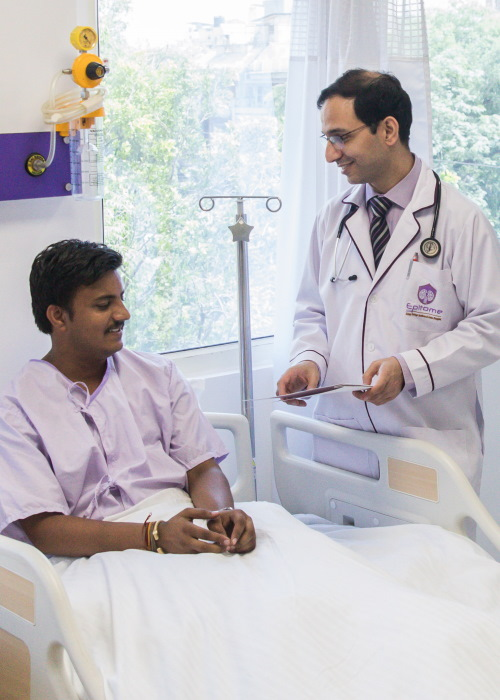
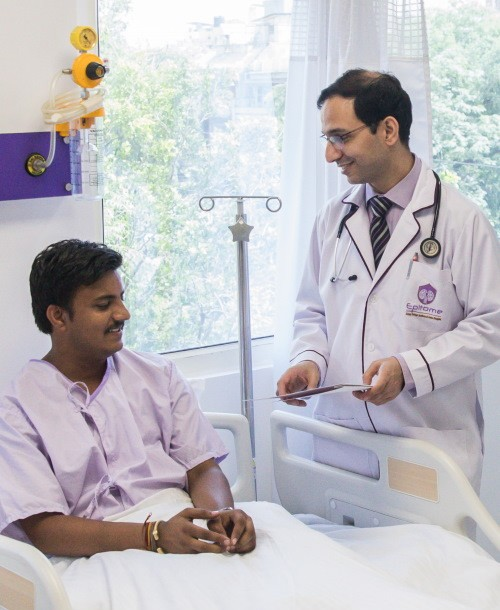
Actualizacion 26-6-25

diff --git a/src/app/dashboard/components/ui/header/header.component.html b/src/app/dashboard/components/ui/header/header.component.html
@@ -1,21 +1,12 @@
 <div
-  class="navbar bg-one-300/20 shadow-sm justify-between px-4 md:px-44 font-montserrat"
+  class="navbar bg-one-300/20 shadow-sm justify-between px-4 md:px-44 bg-one-300"
 >
   <div class="flex flex-row items-center">
-    <button class="btn bg-one-700 border-none text-white md:hidden">
-      <svg
-        xmlns="http://www.w3.org/2000/svg"
-        fill="none"
-        viewBox="0 0 24 24"
-        class="inline-block h-5 w-5 stroke-current"
-      >
-        <path
-          stroke-linecap="round"
-          stroke-linejoin="round"
-          stroke-width="2"
-          d="M4 6h16M4 12h16M4 18h16"
-        ></path>
-      </svg>
+    <button
+      class="btn bg-one-700 border-none text-white md:hidden"
+      (click)="toogleMenu()"
+    >
+      <span class="icon-[mingcute--menu-fill] text-2xl"></span>
     </button>
     <img
       src="/logo_color_header.png"
@@ -26,23 +17,24 @@
       class="menu hidden md:flex md:menu-horizontal rounded-box space-x-2 mx-4"
     >
       @for (item of menuItems; track item.title) {
-
       <li>
         <a
           class="hover:bg-one-700 hover:text-white hover:border-none rounded-md p-4 transition-all font-bold text-base"
           >{{ item.title }}</a
         >
       </li>
-
       }
     </ul>
   </div>
   <div class="flex-none space-x-4">
-    <!-- <button class="btn bg-one/20 border-none text-black/60 font-montserrat">
+    <!-- <button class="btn bg-one/20 border-none text-black/60">
       Servicios
     </button> -->
-    <button class="btn bg-one-700 border-none text-white font-montserrat">
+    <button class="btn bg-one-700 text-white" onclick="my_modal_1.showModal()">
       Turnos
     </button>
+    <dialog id="my_modal_1" class="modal">
+      <app-modal-appointment />
+    </dialog>
   </div>
 </div>

diff --git a/src/styles.css b/src/styles.css
@@ -19,7 +19,7 @@
 }
 
 @theme {
-  /* --color-one: #28516c; */
+  /* --color-one: #28516c; 700 */
 
   --color-one-50: oklch(96.42% 0.013 251.55);
   --color-one-100: oklch(93.03% 0.026 248.1);
@@ -29,7 +29,7 @@
   --color-one-500: oklch(63.41% 0.098 239.99);
   --color-one-600: oklch(56.61% 0.087 239.31);
   --color-one-700: oklch(48.96% 0.075 238.88);
-  --color-one-800: oklch(41.77% 0.065 239.66);
+  --color-one-800: oklch(41.772% 0.0646 239.698);
   --color-one-900: oklch(27.39% 0.042 239.95);
   --color-one-950: oklch(20.47% 0.032 239.07);
 
@@ -74,4 +74,35 @@
   --shadow-xl: 0 20px 25px -5px rgb(0 0 0 / 0.1),
     0 8px 10px -6px rgb(0 0 0 / 0.1);
   --shadow-2xl: 0 25px 50px -12px rgb(0 0 0 / 0.25);
+
+  --animate-menu-on: menu-on 0.5s ease-in;
+  --animate-menu-off: menu-off 0.5s ease-out;
+
+  @keyframes menu-on {
+    0% {
+      transform: translateX(-100%);
+    }
+    100% {
+      transform: translateX(0%);
+    }
+  }
+
+  @keyframes menu-off {
+    0% {
+      visibility: visible;
+      transform: translateX(0%);
+    }
+    100% {
+      transform: translateX(-100%);
+    }
+  }
+}
+
+@utility modal {
+  @apply opacity-0;
+  @apply backdrop-blur-sm;
+}
+
+@utility scroll-none {
+  overscroll-behavior-y: contain;
 }

diff --git a/src/app/dashboard/components/ui/footer/footer.component.html b/src/app/dashboard/components/ui/footer/footer.component.html
@@ -1,8 +1,12 @@
 <footer
-  class="footer md:grid-cols-12 bg-base-200 text-base-content p-4 md:p-12 font-montserrat bg-black/70 text-white/80"
+  class="footer md:grid-cols-12 text-base-content p-4 md:p-12 bg-black/80 text-white/80"
 >
   <aside class="md:col-span-3">
-    <img src="logo_color_header.png" alt="logo" class="h-12 md:h-16" />
+    <img
+      src="logo_color_footer.png"
+      alt="logo"
+      class="h-12 md:h-16 bg-black/5"
+    />
     <p>Su salud es nuestra prioridad</p>
 
     <div class="space-x-2">
@@ -47,11 +51,10 @@
       <p>Emergencia: disponible 24/7</p>
     </div>
   </nav>
-  <div
-    class="md:col-span-12 flex flex-row items-center w-full border-t-2 border-white mt-2 pt-2 space-x-2"
-  >
-    <span class="icon-[solar--copyright-linear]"></span>
-    <p class="text-sm">2025 SaludVital.</p>
-    <p class="hidden md:flex">Todos los derechos reservados.</p>
-  </div>
 </footer>
+<div
+  class="flex flex-row items-center space-x-2 bg-black/80 text-white/80 p-4 md:px-12 border-t-2 border-t-white"
+>
+  <span class="icon-[solar--copyright-linear]"></span>
+  <p class="text-[12px] md:text-sm">2025 SaludVital. Todos los derechos reservados.</p>
+</div>

diff --git a/src/app/dashboard/components/ui/main/main.component.html b/src/app/dashboard/components/ui/main/main.component.html
@@ -1,5 +1,5 @@
 <main
-  class="h-full grid grid-cols-4 md:grid-cols-12 gap-4 md:gap-8 mx-4 md:mx-44 mt-4 md:mt-16 font-montserrat"
+  class="h-full grid grid-cols-4 md:grid-cols-12 gap-4 md:gap-8 mx-4 md:mx-44 mt-4 md:mt-8"
 >
   <!-- Logo and title-->
   <section class="col-span-4 md:col-span-6 md:px-4">
@@ -13,7 +13,7 @@
       </div>
       <div class="col-span-2 col-start-3 md:col-span-6">
         <h1
-          class="text-3xl md:text-5xl font-montserrat-bold font-bold text-center text-shadow-lg text-black/60 text-shadow-2xs md:mt-8"
+          class="text-3xl md:text-5xl font-montserrat-bold font-bold text-center text-shadow-lg text-black/60 text-shadow-2xs"
         >
           Su Salud es Nuestra <span class="text-two-300">Prioridad</span>
         </h1>
@@ -61,7 +61,7 @@
     <div>
       <img
         class="w-full flexgrayscale-50 brightness-75"
-        src="doctors_4.jpg"
+        src="medicos.png"
         alt="Doctors"
       />
     </div>

diff --git a/src/app/dashboard/components/ui/header/header.component.ts b/src/app/dashboard/components/ui/header/header.component.ts
@@ -1,13 +1,28 @@
-import { Component } from '@angular/core';
+import { Component, inject} from '@angular/core';
 import { menuItems } from '../../../data/data-main';
-import { MenuItem } from '../../../interfaces/main.interface';
+import { MenuItem } from '../../../interfaces/dashboard.interface';
+import { DashboardService } from '../../../dashboard.service';
+import { ModalAppointmentComponent } from "../modal-appointment/modal-appointment.component";
 
 @Component({
   selector: 'app-header',
-  imports: [],
+  imports: [ModalAppointmentComponent],
+
   templateUrl: './header.component.html',
 })
 export class HeaderComponent {
 
+  constructor() {
+
+  }
+
+
   menuItems: MenuItem[] = menuItems;
+
+  dashboardService = inject(DashboardService);
+
+  toogleMenu = () => this.dashboardService.toogleMenu();
+
+
+
 }

diff --git a/src/app/dashboard/pages/home-page/home-page.component.ts b/src/app/dashboard/pages/home-page/home-page.component.ts
@@ -1,0 +1,25 @@
+import { Component, inject } from '@angular/core';
+import { MainComponent } from "../../components/ui/main/main.component";
+import { FooterComponent } from "../../components/ui/footer/footer.component";
+import { SideMenuComponent } from "../../components/ui/side-menu/side-menu.component";
+import { DashboardService } from '../../dashboard.service';
+
+@Component({
+  selector: 'app-home-page',
+  imports: [MainComponent, FooterComponent, SideMenuComponent],
+  templateUrl: './home-page.component.html',
+})
+export class HomePageComponent {
+
+  constructor() {
+
+  }
+
+  dashboardService = inject(DashboardService);
+  isMenuOpen = this.dashboardService.isMenuOpen;
+
+
+}
+
+
+

diff --git a/src/app/dashboard/dashboard.routes.ts b/src/app/dashboard/dashboard.routes.ts
@@ -1,14 +1,20 @@
 import { Routes } from "@angular/router";
-import { DashboardComponent } from "./components/dashboard.component";
+import { DashboardLayoutComponent } from "./layout/dashboard-layout/dashboard-layout.component";
+import { HomePageComponent } from "./pages/home-page/home-page.component";
 
 
 export const dashboardRoutes: Routes = [
   {
-    path: '', component: DashboardComponent,
+    path: '', component: DashboardLayoutComponent,
     children: [
-      { path: 'dashboard', component: DashboardComponent },
+      { path: "", component: HomePageComponent },
     ]
+  },
+  {
+    path: "**",
+    redirectTo: ""
   }
+
 ];
 
 export default dashboardRoutes;

diff --git a/src/index.html b/src/index.html
@@ -1,13 +1,13 @@
-<!doctype html>
+<!DOCTYPE html>
 <html lang="en">
-<head>
-  <meta charset="utf-8">
-  <title>SaludVital</title>
-  <base href="/">
-  <meta name="viewport" content="width=device-width, initial-scale=1">
-  <link rel="icon" type="image/x-icon" href="favicon.ico">
-</head>
-<body>
-  <app-root></app-root>
-</body>
+  <head>
+    <meta charset="utf-8" />
+    <title>SaludVital</title>
+    <base href="/" />
+    <meta name="viewport" content="width=device-width, initial-scale=1" />
+    <link rel="icon" type="image/x-icon" href="favicon.ico" />
+  </head>
+  <body class='font-montserrat'>
+    <app-root></app-root>
+  </body>
 </html>

diff --git a/src/app/dashboard/components/ui/main/main.component.ts b/src/app/dashboard/components/ui/main/main.component.ts
@@ -1,5 +1,5 @@
 import { Component } from '@angular/core';
-import { ContactInformation, Doctor, MedicalService, Service } from '../../../interfaces/main.interface';
+import { ContactInformation, Doctor, MedicalService, Service } from '../../../interfaces/dashboard.interface';
 import { services, medicalServices, doctors, contactInformation } from '../../../data/data-main';
 
 
@@ -9,7 +9,7 @@ import { services, medicalServices, doctors, contactInformation } from '../../..
   templateUrl: './main.component.html',
 })
 export class MainComponent {
-  constructor() {}
+  constructor() { }
 
   services: Service[] = services;
 

diff --git a/src/app/dashboard/components/ui/side-menu/side-menu.component.ts b/src/app/dashboard/components/ui/side-menu/side-menu.component.ts
@@ -1,0 +1,21 @@
+import { Component, inject } from '@angular/core';
+import { DashboardService } from '../../../dashboard.service';
+import { MenuItem } from '../../../interfaces/dashboard.interface';
+import { menuItems } from '../../../data/data-main';
+
+@Component({
+  selector: 'app-side-menu',
+  imports: [],
+  templateUrl: './side-menu.component.html',
+})
+export class SideMenuComponent {
+
+  constructor() {
+
+  }
+
+  dashboardService = inject(DashboardService);
+  menuItems: MenuItem[] = menuItems;
+
+
+}

diff --git a/src/app/dashboard/data/data-main.ts b/src/app/dashboard/data/data-main.ts
@@ -1,4 +1,4 @@
-import { Service, MedicalService, Doctor, ContactInformation, MenuItem } from '../interfaces/main.interface';
+import { Service, MedicalService, Doctor, ContactInformation, MenuItem } from '../interfaces/dashboard.interface';
 
 
 export const services: Service[] = [
@@ -144,6 +144,9 @@ export const contactInformation: ContactInformation[] = [
 export const menuItems: MenuItem[] = [
   {
     title: 'Inicio',
+  },
+  {
+    title: 'Nosotros',
   },
   {
     title: 'Servicios',

diff --git a/src/app/dashboard/components/ui/side-menu/side-menu.component.html b/src/app/dashboard/components/ui/side-menu/side-menu.component.html
@@ -1,0 +1,12 @@
+<div class="z-20 w-full flex flex-row overflow-y-hidden">
+  <div class="bg-one-100 h-screen w-2/3 z-30">
+    <ul class="menu flex menu-vertical">
+      @for (item of menuItems; track item.title) {
+      <li>
+        <a class="font-bold text-base pl-8">{{ item.title }}</a>
+      </li>
+      }
+    </ul>
+  </div>
+  <div class="w-1/3 h-screen z-30 backdrop-blur-sm backdrop-grayscale"></div>
+</div>
